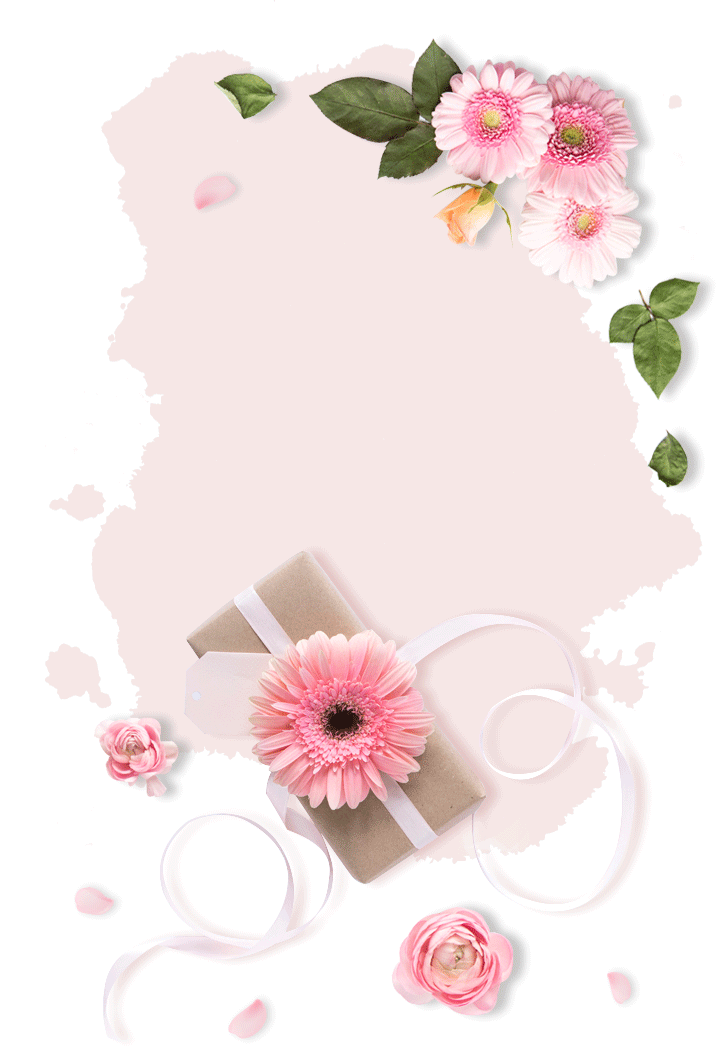
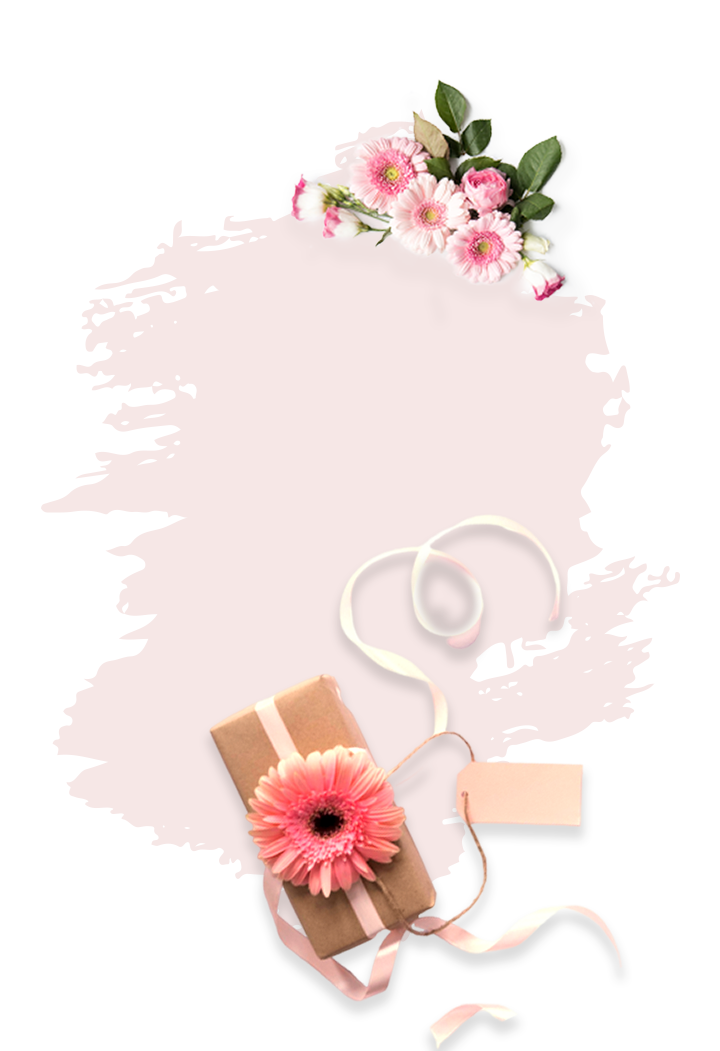
Fix:changes for front pics

diff --git a/resources/views/index.blade.php b/resources/views/index.blade.php
@@ -140,20 +140,20 @@
 </ol>
 
 
-<!-- Wrapper for slides -->
 <div class="carousel-inner">
-<!-- @foreach($banners as $banner) -->
-<div class="item active slide-1">
-	<img src="{{ asset('/images/frontend_images/crausol_banner1.png') }}" alt="img-holiwood">
+@foreach($banners as $key => $banner)
+<div class="item {{$key == 0 ? 'active' : '' }} slide-1">
+	<img src="{{ asset('/images/frontend_images/banners/'.$banner->image) }}" alt="img-holiwood">
 	<div class="carousel-caption">
       <h3>EXPLORE THE</h3>
       <h1>New Arrivals</h1>
-      <p>Discover Evergreen Elegance: Where Sustainability Blossoms in Every Petal.</p><br/>
+      <p>It is a long established fact that a reader will be distracted by the readable content of a page when looking at its layout</p>
       <a href="#">Shop now</a>
     </div>
-  	
 </div>
-<!-- @endforeach -->
+
+@endforeach
+<!-- 
 <div class="item slide-2">
 	<img src="{{ asset('/images/frontend_images/crausol_banner2.png') }}" alt="img-holiwood">
 	<div class="carousel-caption">
@@ -164,21 +164,24 @@
       <a href="#">Shop now</a>
     </div>
   
-</div>
-
+</div> -->
+<!-- 
 <div class="item slide-1">
 	<img src="{{ asset('/images/frontend_images/crausol_banner3.png') }}" alt="img-holiwood">
 	<div class="carousel-caption">
       <h3>EXPLORE THE</h3>
       <h1>New Arrivals</h1>
-      <p>Discover Evergreen Elegance: Where Sustainability Blossoms in Every Petal.</p>
-      <!-- <img src="img/310x26.png" alt="img-holiwood"><br> -->
+      <p>It is a long established fact that a reader will be distracted by the readable content of a page when looking at its layout</p>
       <a href="#">Shop now</a>
     </div>
   	
+</div> -->
+
+
+
 </div>
 </div>
-</div>
+
 	<section class="sections-shpping01 d-inline-block w-100">
        <div class="container position-relative">
           <div class="inside-flowers d-inline-block w-100">
@@ -261,9 +264,10 @@ making it a cornerstone for environmental stewardship in the region.</p>
 		<a href="#">Shop now</a>
 	</div>
 	<div class="col-lg-6 col-md-6 col-sm-6 col-xs-6">
+		@foreach($categories as $category)
 		<div class="col-lg-6 col-md-6 col-sm-6 col-xs-6 product-collection">
 			<div class="product-image-collec">
-				<figure class="hot"><a href="#"><img src="{{ asset('/images/frontend_images/product4.webp') }}" class="img-responsive" alt="img-holiwood"></a></figure>
+				<figure class="hot"><a href="#"><img src="{{ asset('/images/frontend_images/category/'.$category->image) }}" class="img-responsive" alt="img-holiwood"></a></figure>
 				<div class="product-icon-collec">
 					<a href="#" data-toggle="modal" data-target="#myModal"><i class="far fa-eye"></i></a>
 					<a href="#"><i class="fas fa-shopping-basket"></i></a>
@@ -271,15 +275,15 @@ making it a cornerstone for environmental stewardship in the region.</p>
 				</div>
 			</div>
 			<div class="product-title-collec">
-				<h5><a href="#"> Pink roses</a></h5>
+				<h5><a href="#"> {{ $category->name }}</a></h5>
 				<div class="star"><i class="fas fa-star"></i><i class="fas fa-star"></i><i class="fas fa-star"></i><i class="fas fa-star"></i><i class="far fa-star"></i></div>
-				<div class="prince">$207.2</div>
+				<div class="prince">Rs{{ $category->price }}</div>
 			</div>
-			
 		</div>
-		<div class="col-lg-6 col-md-6 col-sm-6 col-xs-6 product-collection">
+		@endforeach
+		<!-- <div class="col-lg-6 col-md-6 col-sm-6 col-xs-6 product-collection">
 			<div class="product-image-collec">
-				<a href="#"><img src="{{ asset('/images/frontend_images/product2.webp') }}" class="img-responsive" alt="img-holiwood"></a>
+				<a href="#"><img src="{{ asset('/images/frontend_images/category2.png') }}" class="img-responsive" alt="img-holiwood"></a>
 				<div class="product-icon-collec">
 					<a href="#" data-toggle="modal" data-target="#myModal"><i class="far fa-eye"></i></a>
 					<a href="#"><i class="fas fa-shopping-basket"></i></a>
@@ -294,7 +298,7 @@ making it a cornerstone for environmental stewardship in the region.</p>
 		</div>
 		<div class="col-lg-6 col-md-6 col-sm-6 col-xs-6 product-collection">
 			<div class="product-image-collec">
-				<a href="#"><img src="{{ asset('/images/frontend_images/product3.webp') }}" class="img-responsive" alt="img-holiwood"></a>
+				<a href="#"><img src="{{ asset('/images/frontend_images/category3.png') }}" class="img-responsive" alt="img-holiwood"></a>
 				<div class="product-icon-collec">
 					<a href="#" data-toggle="modal" data-target="#myModal"><i class="far fa-eye"></i></a>
 					<a href="#"><i class="fas fa-shopping-basket"></i></a>
@@ -306,10 +310,10 @@ making it a cornerstone for environmental stewardship in the region.</p>
 				<div class="star"><i class="fas fa-star"></i><i class="fas fa-star"></i><i class="fas fa-star"></i><i class="fas fa-star"></i><i class="far fa-star"></i></div>
 				<div class="prince">$250.6</div>
 			</div>
-		</div>
-		<div class="col-lg-6 col-md-6 col-sm-6 col-xs-6 product-collection">
+		</div> -->
+		<!-- <div class="col-lg-6 col-md-6 col-sm-6 col-xs-6 product-collection">
 			<div class="product-image-collec">
-				<figure class="sale"><a href="#"><img src="{{ asset('/images/frontend_images/product4.webp') }}" class="img-responsive" alt="img-holiwood"></a></figure>
+				<figure class="sale"><a href="#"><img src="{{ asset('/images/frontend_images/category4.png') }}" class="img-responsive" alt="img-holiwood"></a></figure>
 				<div class="product-icon-collec">
 					<a href="#" data-toggle="modal" data-target="#myModal"><i class="far fa-eye"></i></a>
 					<a href="#"><i class="fas fa-shopping-basket"></i></a>
@@ -321,7 +325,7 @@ making it a cornerstone for environmental stewardship in the region.</p>
 				<div class="star"><i class="fas fa-star"></i><i class="fas fa-star"></i><i class="fas fa-star"></i><i class="far fa-star"></i><i class="far fa-star"></i></div>
 				<div class="prince">$100.9<s class="strike">$150.9</s></div>
 			</div>
-		</div>
+		</div> -->
 	</div>
 </div>
 </figure>
@@ -429,7 +433,7 @@ making it a cornerstone for environmental stewardship in the region.</p>
 		<div class="product-title-holiday">
 				<h5><a href="#">Fun & Flirty By BloomNation</a></h5>
 				<div class="star"><i class="fas fa-star"></i><i class="fas fa-star"></i><i class="fas fa-star"></i><i class="fas fa-star"></i><i class="far fa-star"></i></div>
-				<div class="prince">$200.2</div>
+				<div class="prince">&#8377;&nbsp;200.2</div>
 		</div>
 		</div>
 		<div class="col-lg-6 col-md-6 col-sm-6 col-xs-6 product-holiday">
@@ -444,12 +448,12 @@ making it a cornerstone for environmental stewardship in the region.</p>
 		<div class="product-title-holiday">
 				<h5><a href="#">Winter White Bouquet</a></h5>
 				<div class="star"><i class="fas fa-star"></i><i class="fas fa-star"></i><i class="fas fa-star"></i><i class="fas fa-star"></i><i class="fas fa-star"></i></div>
-				<div class="prince">$240.2</div>
+				<div class="prince">&#8377;&nbsp;240.2</div>
 		</div>
 		</div>
 		<div class="col-lg-6 col-md-6 col-sm-6 col-xs-6 product-holiday">
 			<div class="product-image-holiday">
-				<a href="#"><img src="{{ asset('/images/frontend_images/flower1.png') }}" class="img-responsive" alt="img-holiwood"></a>
+				<a href="#"><img src="{{ asset('/images/frontend_images/flower4.png') }}" class="img-responsive" alt="img-holiwood"></a>
 				<div class="product-icon-holiday">
 					<a href="#"><i class="far fa-eye"></i></a>
 					<a href="#"><i class="fas fa-shopping-basket"></i></a>
@@ -459,12 +463,12 @@ making it a cornerstone for environmental stewardship in the region.</p>
 		<div class="product-title-holiday">
 				<h5><a href="#">Tulipa Floriade - Red</a></h5>
 				<div class="star"><i class="fas fa-star"></i><i class="fas fa-star"></i><i class="far fa-star"></i><i class="far fa-star"></i><i class="far fa-star"></i></div>
-				<div class="prince">$105.7</div>
+				<div class="prince">&#8377;&nbsp;105.7</div>
 		</div>
 		</div>
 		<div class="col-lg-6 col-md-6 col-sm-6 col-xs-6 product-holiday">
 			<div class="product-image-holiday">
-				<figure class="sale"><a href="#"><img src="{{ asset('/images/frontend_images/flower2.png') }}" class="img-responsive" alt="img-holiwood"></a></figure>
+				<figure class="sale"><a href="#"><img src="{{ asset('/images/frontend_images/flower3.png') }}" class="img-responsive" alt="img-holiwood"></a></figure>
 				<div class="product-icon-holiday">
 					<a href="#"><i class="far fa-eye"></i></a>
 					<a href="#"><i class="fas fa-shopping-basket"></i></a>
@@ -474,7 +478,7 @@ making it a cornerstone for environmental stewardship in the region.</p>
 		<div class="product-title-holiday">
 				<h5><a href="#">West Palm Beach Florist</a></h5>
 				<div class="star"><i class="fas fa-star"></i><i class="fas fa-star"></i><i class="fas fa-star"></i><i class="fas fa-star"></i><i class="far fa-star"></i></div>
-				<div class="prince">$209.2<s class="strike">$180.9</s></div>
+				<div class="prince">&#8377;&nbsp;209.2<s class="strike">&#8377;180.9</s></div>
 		</div>
 		</div>
 	</div>
@@ -530,10 +534,10 @@ making it a cornerstone for environmental stewardship in the region.</p>
 </div>
 <div class="container blog">
 <h1>Latest Blogs</h1>
-<p>- Lorem Ipsum is<span class="hidden-xs"> simply dummy</span> text of the printing -</p>
+<p>- Discovere the wide range of topics<span class="hidden-xs"> and blogs</span> here -</p>
 <div class="row">
 	<div class="col-lg-4 col-md-4 col-sm-4 col-xs-6 product-blog">
-		<a href="#"><img src="{{ asset('/images/frontend_images/blog-1.jpg') }}" class="img-responsive" title="img-blog" alt="img-holiwood"></a>
+		<a href="#"><img src="{{ asset('/images/frontend_images/blog-1.png') }}" class="img-responsive" title="img-blog" alt="img-holiwood"></a>
 		<div class="time-blog">
 			<span class="time"><i class="far fa-calendar-alt"></i><span>May, 12 2023</span></span>
 			<span class="time"><i class="far fa-edit"></i><span>Pixel-Creative</span></span>
@@ -542,7 +546,7 @@ making it a cornerstone for environmental stewardship in the region.</p>
 		<p> Flowers carry a rich history of symbolism, forming a silent language all their own.</p>
 	</div>
 	<div class="col-lg-4 col-md-4 col-sm-4 col-xs-6 product-blog">
-		<a href="#"><img src="{{ asset('/images/frontend_images/blog-2.jpg') }}" class="img-responsive" title="img-blog" alt="img-holiwood"></a>
+		<a href="#"><img src="{{ asset('/images/frontend_images/blog-2.png') }}" class="img-responsive" title="img-blog" alt="img-holiwood"></a>
 		<div class="time-blog">
 			<span class="time"><i class="far fa-calendar-alt"></i><span>May, 12 2023</span></span>
 			<span class="time"><i class="far fa-edit"></i><span>Pixel-Creative</span></span>
@@ -552,7 +556,7 @@ making it a cornerstone for environmental stewardship in the region.</p>
 
 	</div>
 	<div class="col-lg-4 col-md-4 col-sm-4 col-xs-6 product-blog">
-		<a href="#"><img src="{{ asset('/images/frontend_images/blog-3.jpg') }}" class="img-responsive" title="img-blog" alt="img-holiwood"></a>
+		<a href="#"><img src="{{ asset('/images/frontend_images/blog-3.png') }}" class="img-responsive" title="img-blog" alt="img-holiwood"></a>
 		<div class="time-blog">
 			<span class="time"><i class="far fa-calendar-alt"></i><span>May, 12 2023</span></span>
 			<span class="time"><i class="far fa-edit"></i><span>Pixel-Creative</span></span>

diff --git a/app/Http/Controllers/CategoryController.php b/app/Http/Controllers/CategoryController.php
@@ -31,7 +31,7 @@ class CategoryController extends Controller
                     $extension = $image_tmp->getClientOriginalExtension();
                     $filename = rand(111,99999).'.'.$extension;
                     $image_path = 'images/frontend_images/category/'.$filename;
-                    Image::make($image_tmp)->resize(148,148)->save($image_path);
+                    Image::make($image_tmp)->resize(340,420)->save($image_path);
 
                     // Store image name in category table
                     $category->image = $filename;
@@ -62,7 +62,7 @@ class CategoryController extends Controller
                     $image_path = 'images/frontend_images/category/'.$filename;
 
                     // Resizes image
-                    Image::make($image_tmp)->resize(148,148)->save($image_path);
+                    Image::make($image_tmp)->resize(340,420)->save($image_path);
                 }
             } else if(!empty($data['current_image'])){
                 $filename = $data['current_image'];

diff --git a/app/Http/Controllers/HomeController.php b/app/Http/Controllers/HomeController.php
@@ -5,6 +5,7 @@ namespace App\Http\Controllers;
 use App\Models\About;
 use App\Models\Banner;
 use App\Models\Product;
+use App\Models\Category;
 use App\Models\ProductsImage;
 use Illuminate\Support\Facades\Mail;
 use Illuminate\Http\Request;
@@ -15,7 +16,8 @@ class HomeController extends Controller
         $meta_title = 'Index | Ibbani flower';
         $banners = Banner::where('status',1)->get();
         $products = Product::where('status',1)->orderBy('id','Desc')->take(4)->get();
-    	return view('index')->with(compact('meta_title','banners','products'));
+        $categories = Category::where('status',1)->orderBy('id','DESC')->take(4)->get();
+    	return view('index')->with(compact('meta_title','banners','products','categories'));
     }
     public function about(){
         $meta_title = 'About Us | Ibbani flower';

diff --git a/app/Http/Controllers/BannersController.php b/app/Http/Controllers/BannersController.php
@@ -45,7 +45,7 @@ class BannersController extends Controller
     				$banner_path = 'images/frontend_images/banners/'.$filename;
 
     				// Resizes image
-    				Image::make($image_tmp)->resize(1350,400)->save($banner_path);
+    				Image::make($image_tmp)->resize(1920,1080)->save($banner_path);
 
     				// Store image name in banner table
     				$banner->image = $filename;
@@ -91,7 +91,7 @@ class BannersController extends Controller
     				$banner_path = 'images/frontend_images/banners/'.$filename;
 
     				// Resizes image
-    				Image::make($image_tmp)->resize(1350,400)->save($banner_path);
+    				Image::make($image_tmp)->resize(1920,1080)->save($banner_path);
                 }
             }else if(!empty($data['current_image'])){
                 $filename = $data['current_image'];

diff --git a/resources/views/admin/banners/add_banner.blade.php b/resources/views/admin/banners/add_banner.blade.php
@@ -32,7 +32,7 @@
                 <label class="control-label">Image : </label>
                 <div class="controls">
                   <input type="file" name="image" id="image"><br>
-                  <small>Banner Size should be 1350x400px</small>
+                  <small>Banner Size should be 1920*1080px</small>
                 </div>
               </div>
               <div class="control-group">

diff --git a/resources/views/admin/banners/edit_banner.blade.php b/resources/views/admin/banners/edit_banner.blade.php
@@ -55,7 +55,7 @@
                   @if(!empty($bannerDetails->image))
                   <img style="height: 50px;" src="{{ asset('images/frontend_images/banners/'.$bannerDetails->image) }}">
                   @endif<br>
-                  <small>Banner Size should be 1350x400px</small>
+                  <small>Banner Size should be 1920*1080px</small>
 
                 </div>
               </div>

diff --git a/resources/views/layouts/frontLayout/front_header.blade.php b/resources/views/layouts/frontLayout/front_header.blade.php
@@ -106,7 +106,7 @@
 					</ul>
 				</li>
 				<li class="col-lg-4 col-md-4 hidden-sm hidden-xs li-banner">
-					<a href="#"><img src="{{ asset('/images/frontend_images/flower1.png') }}" alt="img-holiwood"></a>
+					<a href="#"><img src="{{ asset('images/frontend_images/shop_banner.png') }}" alt="img-holiwood"></a>
 				</li>
 				
 					</ul>
